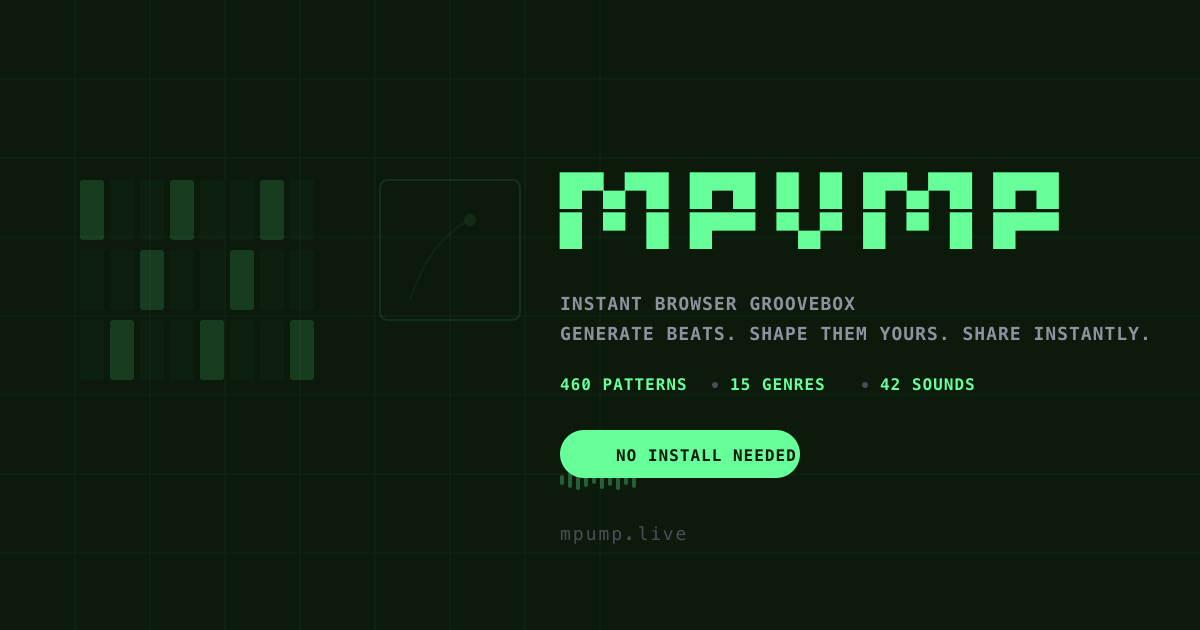
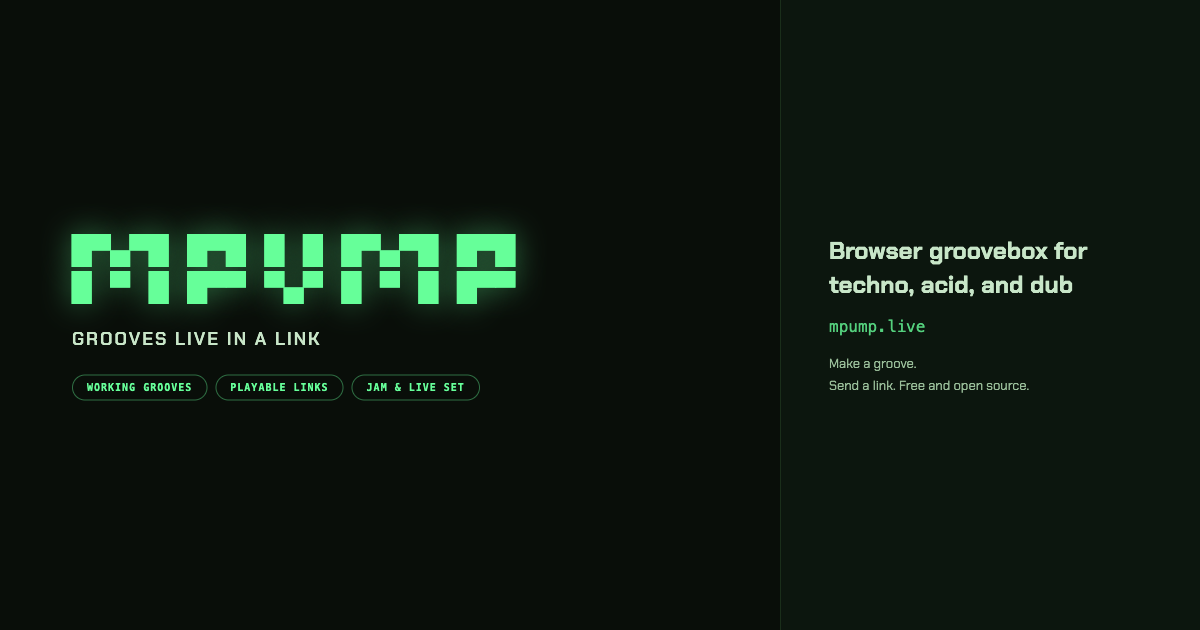
feat: OG cards, drum kit UX, euclidean UX, title+copy polish (v1.4.0)
New OG image with ASCII logo. Add OG tags to redirect index.html.
Longer page titles for SEO. Splash subtitle to "Grooves live in a link".
Drum kit: compact view (LEVEL+PAN default), per-voice mute button.
Euclidean: hits/steps fraction, hint line, clearer button labels.
Brighter landing sequencer left panel.

diff --git a/mpump/server/public/landing.html b/mpump/server/public/landing.html
@@ -3,7 +3,7 @@
 <head>
   <meta charset="UTF-8" />
   <meta name="viewport" content="width=device-width, initial-scale=1.0" />
-  <title>mpump — A groove you can resend</title>
+  <title>mpump — browser groovebox where grooves live in links</title>
   <meta name="description" content="Make a groove. Send a link. Open, change, and resend. A minimal instrument for evolving sound." />
   <meta property="og:title" content="mpump — A groove you can resend" />
   <meta property="og:description" content="Make a groove. Send a link. Open, change, and resend. A browser instrument for making and sharing electronic music. No install. No account." />
@@ -107,7 +107,7 @@
       transition: background 0.1s;
     }
     .seq-step.on { background: var(--accent); border-color: var(--accent); box-shadow: 0 0 6px rgba(102,255,153,0.5); }
-    .seq-step.dim-on { background: rgba(102,255,153,0.3); border-color: rgba(102,255,153,0.3); }
+    .seq-step.dim-on { background: rgba(102,255,153,0.45); border-color: rgba(102,255,153,0.45); }
 
     /* ── page body ── */
     .page { max-width: 1200px; margin: 0 auto; }
@@ -129,14 +129,15 @@
       gap: 4px;
       border-right: 1px solid var(--border);
       padding: 16px 8px;
-      background: rgba(102,255,153,0.02);
+      background: rgba(102,255,153,0.05);
     }
     .row-tag {
       font-family: var(--mono);
       font-size: 9px;
       letter-spacing: 1.5px;
       text-transform: uppercase;
-      color: var(--dim);
+      color: var(--accent);
+      opacity: 0.6;
       writing-mode: vertical-lr;
       transform: rotate(180deg);
     }
@@ -152,7 +153,7 @@
       border-radius: 1px;
       background: var(--border);
     }
-    .row-mini-step.on { background: var(--accent); opacity: 0.7; }
+    .row-mini-step.on { background: var(--accent); opacity: 1; }
 
     .row-content {
       padding: 48px 56px;

diff --git a/mpump/server/src/components/MidiGate.tsx b/mpump/server/src/components/MidiGate.tsx
@@ -66,7 +66,7 @@ export function MidiGate({ midiState, onConnectMidi, onPreview, midiSupported }:
         }, 400);
       }}>{"█▀▄▀█ █▀█ █ █ █▀▄▀█ █▀█\n█ ▀ █ █▀▀ ▀▄▀ █ ▀ █ █▀▀"}</pre>
 
-      <div className="midi-gate-subtitle">A groove you can resend</div>
+      <div className="midi-gate-subtitle">Grooves live in a link</div>
 
       <button className="midi-gate-btn-preview" title="Start playing with browser audio"
         onClick={() => { trackEvent("play-start"); setLogoKey(k => k + 1); clearTimeout(flashTimer.current); flashTimer.current = window.setTimeout(() => onPreview(), 450); }}>

diff --git a/mpump/server/index.html b/mpump/server/index.html
@@ -5,7 +5,7 @@
     <meta name="viewport" content="width=device-width, initial-scale=1.0, viewport-fit=cover, maximum-scale=5" />
 
     <!-- SEO -->
-    <title>mpump — A groove you can resend</title>
+    <title>mpump — browser groovebox where grooves live in links</title>
 
 <meta name="description" content="Make a groove. Send a link. Open, change, and resend. A browser instrument for shaping and sharing electronic music. No install. No account." />
 

diff --git a/mpump/server/public/sw.js b/mpump/server/public/sw.js
@@ -1,5 +1,5 @@
 // Cache version — bump this on every deploy to invalidate old caches
-const CACHE_VERSION = "1.3.9";
+const CACHE_VERSION = "1.4.0";
 const CACHE = `mpump-${CACHE_VERSION}`;
 
 // Pre-cache essential assets on install for offline support

diff --git a/README.md b/README.md
@@ -2,7 +2,7 @@
 <p align="center"><strong>A groove you can resend.</strong><br><br>Browser instrument for techno, acid, and dub. Make something, send it as a link. Open it, change it, send it back different.<br>No install. No account. Free.</p>
 
 <p align="center">
-  <a href="https://github.com/gdamdam/mpump"><img src="https://img.shields.io/badge/version-1.3.9-blue" alt="Version"></a>
+  <a href="https://github.com/gdamdam/mpump"><img src="https://img.shields.io/badge/version-1.4.0-blue" alt="Version"></a>
   <a href="https://github.com/gdamdam/mpump/blob/main/LICENSE"><img src="https://img.shields.io/badge/license-AGPL--3.0-blue" alt="License"></a>
   <br>
   <img src="https://img.shields.io/badge/React-18-61DAFB?logo=react&logoColor=white" alt="React">
